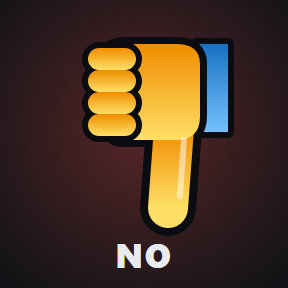
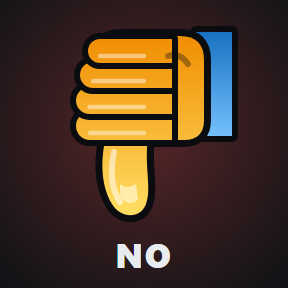
Redraw Yes/No thumbs as a proper fist

Changed region(s): [[0.2188, 0.0625, 0.8438, 0.8438]]

diff --git a/wow-streamdeck/icons.js b/wow-streamdeck/icons.js
@@ -197,15 +197,23 @@ function face(inner, hi = '#FFE066', lo = '#F08C00', cx = 72, cy = 62, r = 40) {
 }
 
 // thumbs up, upright around 72,64
+// Fist faces left like the 👍 emoji: curled fingers stacked on the left, short fat thumb on top, wrist cuff on the right.
 function thumb(gid) {
-  const fist = 'M44 70Q44 58 56 58H82Q92 58 92 70V96Q92 106 82 106H56Q44 106 44 96Z';
-  const fingers = [60, 71, 82, 93].map(y => `<rect x="76" y="${y}" width="24" height="11" rx="5.5"/>`).join('');
-  return grad(gid, '#FFE066', '#F08C00') + grad(gid + 's', '#74C0FC', '#1971C2') +
-    outlined('M30 62H46V106H30Z', `url(#${gid}s)`, 6) +
-    ln('M57 64L60 24', 28) + `<path d="${fist}" fill="${INK}" stroke="${INK}" stroke-width="7"/>` +
-    ln('M57 64L60 24', 20, `url(#${gid})`) + `<path d="${fist}" fill="url(#${gid})"/>` +
-    `<g stroke="${INK}" stroke-width="6">${fingers}</g><g fill="url(#${gid})">${fingers}</g>` +
-    ln('M52 58L54 30', 3, 'rgba(255,255,255,.5)');
+  const f = `url(#${gid})`;
+  const fist = 'M56 58H92Q102 58 102 68V98Q102 110 90 110H60Q50 110 50 100V64Q50 58 56 58Z';
+  const thumbD = 'M54 64C50 50 50 36 56 26C60 19 70 18 73 26C76 34 72 44 74 60Z';
+  const fingers = [[38, 58, 48, 14], [38, 71, 48, 13.5], [40, 84, 46, 13], [44, 96.5, 42, 12]]
+    .map(([x, y, w, h]) => outlined(`M${x + h / 2} ${y}H${x + w}V${y + h}H${x + h / 2}A${h / 2} ${h / 2} 0 0 1 ${x + h / 2} ${y}Z`, f, 6) +
+      ln(`M${x + h / 2} ${y + 3.5}H${x + w - 14}`, 2.2, 'rgba(255,255,255,.45)')).join('');
+  return `<defs><linearGradient id="${gid}" gradientUnits="userSpaceOnUse" x1="0" y1="18" x2="0" y2="112"><stop offset="0" stop-color="#FFE066"/><stop offset="1" stop-color="#F08C00"/></linearGradient></defs>` +
+    grad(gid + 's', '#74C0FC', '#1971C2') +
+    outlined('M98 60H116V112H98Z', `url(#${gid}s)`, 6) +
+    `<path d="${thumbD}" fill="${INK}" stroke="${INK}" stroke-width="7" stroke-linejoin="round"/>` +
+    `<path d="${fist}" fill="${INK}" stroke="${INK}" stroke-width="7" stroke-linejoin="round"/>` +
+    `<path d="${thumbD}" fill="${f}"/><path d="${fist}" fill="${f}"/>` +
+    ln('M57 52C55 42 56 33 60 27', 3, 'rgba(255,255,255,.55)') +
+    `<path d="M60 30Q64 24 69 28L68 36Q63 33 60 36Z" fill="#FFF3BF" opacity=".8"/>` +
+    fingers + ln('M84 100q6 2 10 -4', 3, 'rgba(11,12,15,.35)');
 }
 
 function sword() {
@@ -292,7 +300,7 @@ const EMOTES = {
   healme: { name: 'Heal me', tags: ['emote', 'heal', 'healme'], svg: () => tile(symbol('plus', 72, 62, 88) + spark(118, 26, 10, '#B2F2BB') + spark(26, 98, 8, '#B2F2BB'),
     '#40C057', { label: 'HEAL ME', labelSize: 15 }) },
   yes: { name: 'Yes', tags: ['emote', 'yes', 'thumbs up'], svg: () => tile(thumb('ty'), '#40C057', { label: 'YES' }) },
-  no: { name: 'No', tags: ['emote', 'no', 'thumbs down'], svg: () => tile(`<g transform="rotate(180 72 64)">${thumb('td')}</g>`, '#FA5252', { label: 'NO' }) },
+  no: { name: 'No', tags: ['emote', 'no', 'thumbs down'], svg: () => tile(`<g transform="translate(0 128) scale(1 -1)">${thumb('td')}</g>`, '#FA5252', { label: 'NO' }) },
 };
 
 function all() {
